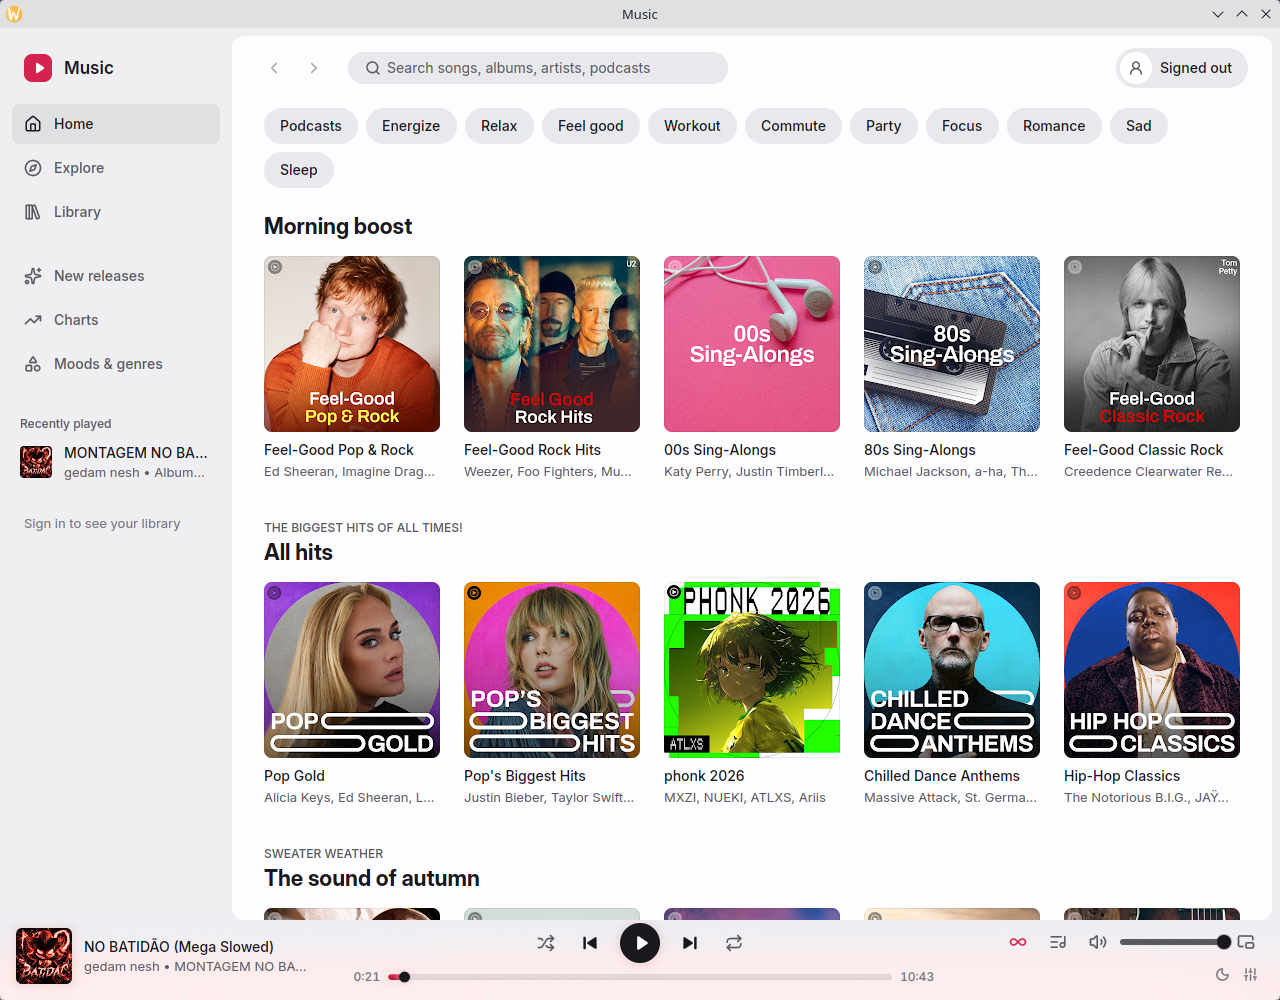
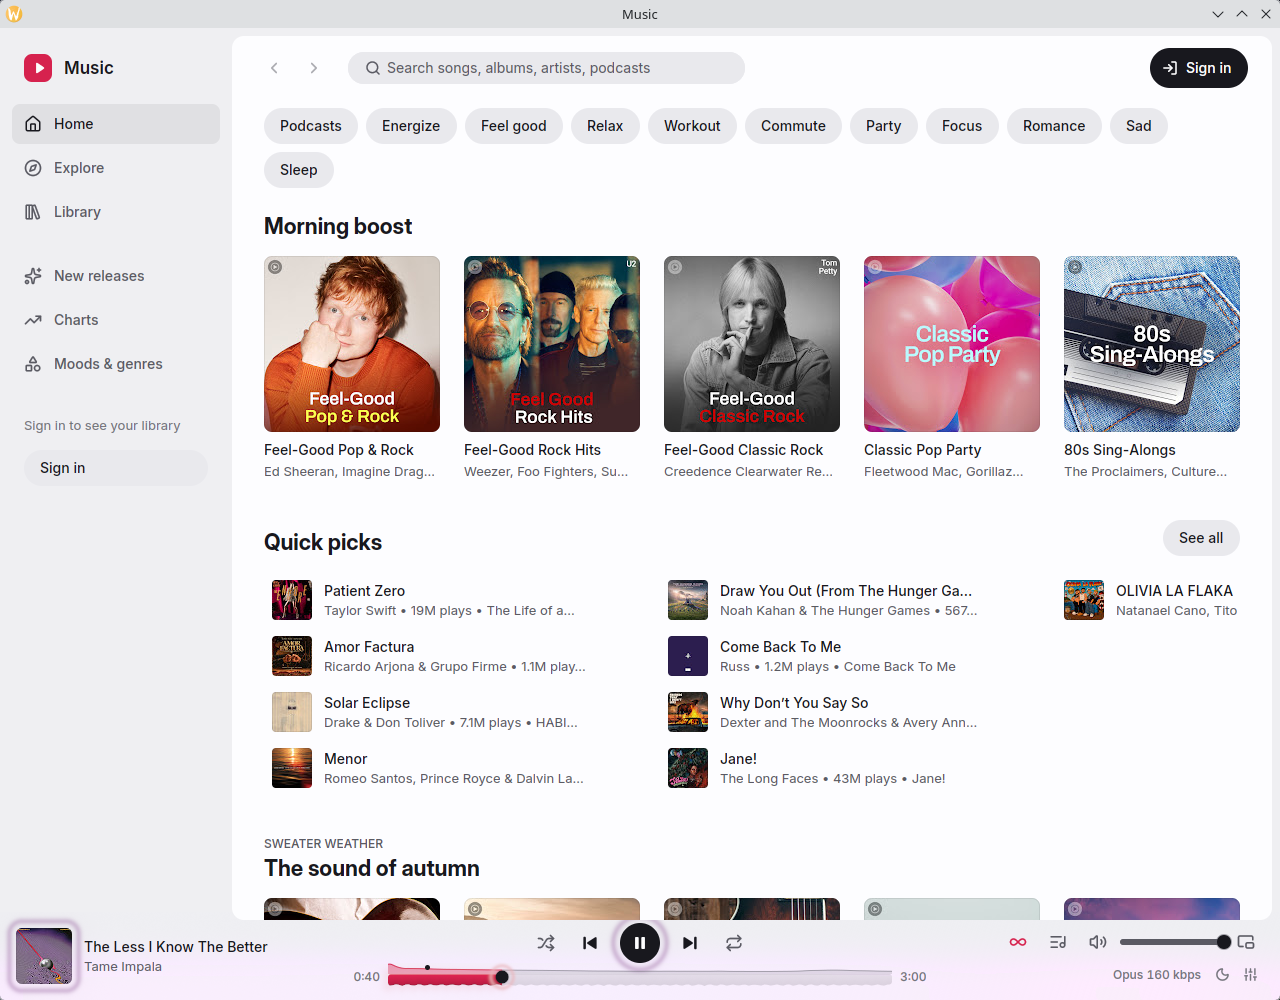
README: new screenshots, the Rust player and current credits
Now Playing, Stage and the light Home show a different song (signed out,
local test audio). The text says the built-in Rust engine plays and mpv is
the fallback, media controls work on Windows and macOS, and the credits
name the player's and resolver's libraries, LRCLIB and souvlaki.

diff --git a/README.md b/README.md
@@ -1,6 +1,6 @@
 # ytfast-gpui
 
-A native YouTube Music app for the desktop, written in Rust with [GPUI](https://www.gpui.rs), the UI framework behind the Zed editor. No Electron, no webview: GPUI draws the interface on the GPU, custom wgpu shaders draw the effects, and mpv plays the audio. It runs on Linux (built for KDE Plasma on Wayland, X11 works too), Windows and macOS.
+A native YouTube Music app for the desktop, written in Rust with [GPUI](https://www.gpui.rs), the UI framework behind the Zed editor. No Electron, no webview: GPUI draws the interface on the GPU, custom wgpu shaders draw the effects, and a built-in Rust audio engine plays the music. It runs on Linux (built for KDE Plasma on Wayland, X11 works too), Windows and macOS.
 
 ![Now Playing: the backdrop, spectrum and waveform come from the cover and the music](docs/screenshots/gpui-now-playing.png)
 
@@ -8,7 +8,7 @@ It's unofficial and not affiliated with YouTube or Google. It uses YouTube Music
 
 ## Download
 
-[Releases](https://github.com/jvz-devx/ytfast-gpui/releases) has installers for each system, built by `.github/workflows/release.yml`. They're test builds (pre-releases) and aren't signed. Nothing else needs installing: the AppImage, the macOS app and the Windows installer include mpv (which plays the audio) and yt-dlp and deno (which find the streams). The app looks next to itself for them before your `PATH`, and says so under the top bar if one is missing.
+[Releases](https://github.com/jvz-devx/ytfast-gpui/releases) has installers for each system, built by `.github/workflows/release.yml`. They're test builds (pre-releases) and aren't signed. Nothing else needs installing: the AppImage, the macOS app and the Windows installer include yt-dlp and deno (which find the streams) and mpv (which plays the few formats the built-in engine can't, such as HE-AAC). The app looks next to itself for them before your `PATH`, and says so under the top bar if one is missing.
 
 **macOS** (Apple silicon on macOS 14 or newer, Intel on macOS 15 or newer). With Homebrew:
 
@@ -40,18 +40,18 @@ The script downloads the setup program, checks it against `checksums.txt` and in
 - macOS: open the `macos-arm64` or `macos-x86_64` `.dmg` and drag ytfast to Applications. The first time, macOS refuses to open it. On macOS 14, right-click the app and choose Open; on macOS 15 and later, try to open it once, then choose Open Anyway in System Settings → Privacy & Security. `xattr -dr com.apple.quarantine /Applications/ytfast.app` does the same in a terminal.
 - Windows: `…-setup.exe` installs for your user with a Start menu entry; SmartScreen warns about the unsigned installer: More info, Run anyway. `…-portable.zip` holds the same files.
 
-On Windows and macOS the tray, MPRIS, notifications and following the system's light/dark setting are Linux-only for now, and closing the window quits.
+Media keys and the system's media controls work everywhere (MPRIS on Linux, the media overlay on Windows, Now Playing on macOS). The tray, song-change notifications and following the system's light/dark setting are Linux-only for now, and on Windows and macOS closing the window quits.
 
 **Updates:** once a day Music looks at Releases for a newer version and shows "Update available" in the top bar; Settings → Updates has Check now and the release notes. The AppImage, the Windows installer and the macOS app update themselves with Update and restart, however you installed them (Homebrew, winget, the scripts or by hand): the download must match the release's `checksums.txt`, and if the new version doesn't open its window within a minute, the previous one comes back. The `.deb`, `.rpm` and portable zip only say a new version is out, so update those the way you installed them. Pre-releases are offered while you run one (every release so far is one); Settings can turn that and the daily check off.
 
 ## What it does
 
 - **Browse like YouTube Music:** Home with mood chips, Explore, Library (playlists, songs, albums, artists, history), album, artist, playlist and mood pages, search with suggestions and recent searches. The sidebar holds Liked music, your playlists and what you played recently.
-- **Play:** gapless playback at the best quality your account gets (Opus 256 kbps with Premium), a queue you can edit and reorder, autoplay radios, timed lyrics that follow the song, Related, and loudness levelling between songs.
+- **Play:** a built-in Rust player (mpv takes over for anything it can't decode) with gapless playback at the best quality your account gets (Opus 256 kbps with Premium), a queue you can edit and reorder, autoplay radios, timed lyrics that follow the song, Related, and loudness levelling between songs.
 - **Effects:** Now Playing has a slowly flowing backdrop made from the cover, a spectrum of the music and the song's waveform; the player bar glows in the cover's colours, its seek bar shows the waveform, and covers dissolve into each other on a new song. They stop when hidden or paused and honour reduced motion.
 - **Extras:** a 10-band equalizer, a sleep timer, smooth mixes (crossfades on radios), audition (hold Alt over a song to hear its best part), the most-replayed part on the seek bar, Stage (cover and big lyrics, full screen) and a mini player.
 - **Your account:** likes, saving albums and playlists, subscribing, and creating, editing and deleting playlists; plays count in your history.
-- **On the desktop:** media keys and the system's media controls (MPRIS), a tray icon so music keeps playing with the window closed, song-change notifications, a command line, and light and dark that follow KDE.
+- **On the desktop:** media keys and the system's media controls on Linux, Windows and macOS, a tray icon so music keeps playing with the window closed, song-change notifications, a command line, and light and dark that follow KDE.
 
 | | |
 | --- | --- |
@@ -87,7 +87,7 @@ YouTube rotates the cookies of a session that stays in use, so an exported file 
 
 ## Build from source
 
-You need Rust 1.98 or newer, CMake, a C compiler and, on Linux, the Wayland/X11, xkbcommon, Vulkan and fontconfig development packages. At runtime: `mpv`, `yt-dlp` with its EJS challenge solver (nixpkgs' `yt-dlp` has it; Fedora's doesn't), and `deno`.
+You need Rust 1.98 or newer, CMake, a C compiler and, on Linux, the Wayland/X11, xkbcommon, Vulkan and fontconfig development packages. At runtime: `yt-dlp` with its EJS challenge solver (nixpkgs' `yt-dlp` has it; Fedora's doesn't) and `deno`, plus `mpv` for the formats the built-in player can't decode (HE-AAC, or a song that fails to decode).
 
 ```sh
 git clone https://github.com/jvz-devx/ytfast-gpui
@@ -97,10 +97,10 @@ cargo run --release
 
 ## Development
 
-The repository has two Cargo workspaces: the root crate (the backend, plus the original egui app behind its default feature) and `gpui/` (the GPUI app and the `ytfast-visuals` effects crate). Common commands, via [just](https://github.com/casey/just):
+The repository has two Cargo workspaces: the root crate (the backend, plus the original egui app behind its default feature) and `gpui/` (the GPUI app, the `ytfast-visuals` effects crate and the `ytfast-audio` player). Common commands, via [just](https://github.com/casey/just):
 
 ```sh
-just check gpui          # cargo check of one crate (gpui, visuals, backend, egui)
+just check gpui          # cargo check of one crate (gpui, visuals, audio, backend, egui)
 just test backend        # one crate's tests (the parser runs against saved YouTube responses)
 just verify gpui         # fmt, check, tests and clippy for a crate, before you finish
 just verify-workspace    # everything, at the end
@@ -115,14 +115,18 @@ Further reading: [docs/gpui/PLAN.md](docs/gpui/PLAN.md) (milestones and their ev
 
 ## Where it comes from
 
-ytfast-gpui is a fork of [ytfast](https://github.com/MayberryDT/ytfast) by Tyler Mayberry (MIT), a YouTube Music player for Omarchy written with egui. This fork keeps ytfast's backend (YouTube Music's API and parser, the yt-dlp resolver, mpv playback, sign-in, MPRIS) and adds the GPUI interface, the wgpu effects, Windows and macOS builds and installers. The original egui app still builds from the root crate (`cargo run --release`); see [docs/SPEC.md](docs/SPEC.md) for its product spec.
+ytfast-gpui is a fork of [ytfast](https://github.com/MayberryDT/ytfast) by Tyler Mayberry (MIT), a YouTube Music player for Omarchy written with egui. This fork keeps ytfast's backend (YouTube Music's API and parser, the yt-dlp resolver, sign-in, MPRIS, mpv playback, now the fallback) and adds the GPUI interface, the wgpu effects, a Rust audio engine, an optional Rust stream resolver, self-updates, and Windows and macOS builds and installers. The original egui app still builds from the root crate (`cargo run --release`); see [docs/SPEC.md](docs/SPEC.md) for its product spec.
 
 Credits:
 
-- [ytfast](https://github.com/MayberryDT/ytfast) by Tyler Mayberry, and through it [fastframe](https://github.com/crmne/fastframe), [ZapFast](https://github.com/crmne/zapfast) and [Spotifast](https://github.com/crmne/spotifast) by Carmine Paolino (MIT).
-- [GPUI](https://github.com/zed-industries/zed) by Zed Industries and [gpui-kit / gpui-component](https://gpui-kit.com) by Longbridge (Apache-2.0).
-- [mpv](https://mpv.io) plays the audio, [yt-dlp](https://github.com/yt-dlp/yt-dlp) and [deno](https://deno.com) find the streams; they run as separate programs and the installers bundle them (licences and sources in `gpui/packaging/THIRD-PARTY.txt`).
+- [ytfast](https://github.com/MayberryDT/ytfast) by Tyler Mayberry, and through it [fastframe](https://github.com/crmne/fastframe), [ZapFast](https://github.com/crmne/zapfast) and [Spotifast](https://github.com/crmne/spotifast) by Carmine Paolino (MIT). The self-updater is adapted from fastframe's `fastframe-update`.
+- [GPUI](https://github.com/zed-industries/zed) by Zed Industries and [gpui-kit](https://github.com/longbridge/gpui-kit) (gpui-component) by Longbridge (both Apache-2.0).
+- The player: [Symphonia](https://github.com/pdeljanov/Symphonia) (MPL-2.0) and [libopus](https://opus-codec.org) (BSD) decode, [cpal](https://github.com/RustAudio/cpal) (Apache-2.0) plays, [rubato](https://github.com/HEnquist/rubato) (MIT) resamples. [mpv](https://mpv.io) (LGPL build) is the fallback player.
+- The streams: [yt-dlp](https://github.com/yt-dlp/yt-dlp) (Unlicense) with [deno](https://deno.com) (MIT). The optional built-in resolver runs yt-dlp's EJS solver scripts (Unlicense) in QuickJS through [rquickjs](https://github.com/DelSkayn/rquickjs) (MIT).
+- Lyrics from [LRCLIB](https://lrclib.net); media controls on Windows and macOS through [souvlaki](https://github.com/Sinono3/souvlaki) (MIT).
 - The [Inter](https://rsms.me/inter/) typeface (OFL) and [Lucide](https://lucide.dev) icons (ISC).
+
+The installers bundle mpv, yt-dlp and deno as separate programs; their licences and sources are listed in `gpui/packaging/THIRD-PARTY.txt`.
 
 ## License
 
